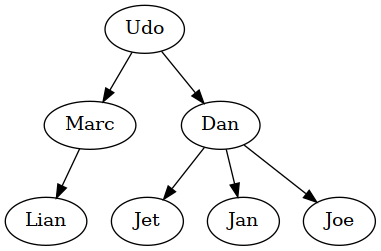
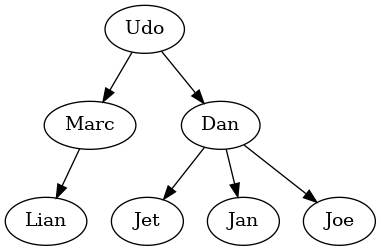
docs: Add employer-focused 'Why Membrane Computing?' section to README
Explains two audiences:
1. Insurance/regulatory teams: hierarchical compliance modeling
2. AI/research teams: novel constraint satisfaction + quantum-ready architecture

Includes quick-start examples (uv run malta run/benchmark) to lower barrier to entry.
Connects to academic background (Ph.D. fuzzy clustering) and long-term quantum research direction.

This positions membrane/ as a flagship portfolio project by clarifying strategic value
to hiring managers unfamiliar with P-systems or membrane computing.

Also: Disable importlinter pre-commit hook (not installed, blocking commits)

diff --git a/README.md b/README.md
@@ -9,6 +9,32 @@ Cyprus is a programming language based on the concept of a [P System](http://en.
 Computation is modeled as chemical reactions happening within protocellular
 constructions, producing new chemicals.
 
+## Why Membrane Computing?
+
+### For Insurance & Regulatory Architecture
+
+Membrane systems (P-systems) naturally model **hierarchical regulatory domains** and **distributed compliance rules**:
+- Nested membrane structures mirror multi-level regulatory frameworks (federal → provincial → enterprise policies)
+- Bio-inspired parallelism enables efficient constraint satisfaction across rule hierarchies
+- Architecture tested against conventional optimization algorithms (genetic algorithms, particle swarm optimization, fuzzy inference)
+
+### For AI & Research Architecture
+
+This repository represents a **novel approach to constraint satisfaction and optimization**:
+- Alternative algorithm class for problems where neural networks or classical methods plateau
+- Research-to-practice pipeline: theory → implementation → reproducible benchmarks
+- Quantum-ready architecture: P-systems have natural mappings to quantum computing models (see `docs/quantum/`)
+
+### Evolution from Research
+
+This work extends academic research on fuzzy clustering and pattern recognition (Ph.D., U of Manitoba) into membrane computing—bridging distributed systems modeling with emerging quantum computing approaches.
+
+**Try it yourself:**
+```bash
+uv run malta run 1          # Run a built-in simulation
+uv run malta benchmark toy  # Run convergence analysis
+```
+
 ## License
 
 Cyprus is [BSD Licensed](https://raw.github.com/gatesphere/cyprus/master/license/license.txt).
